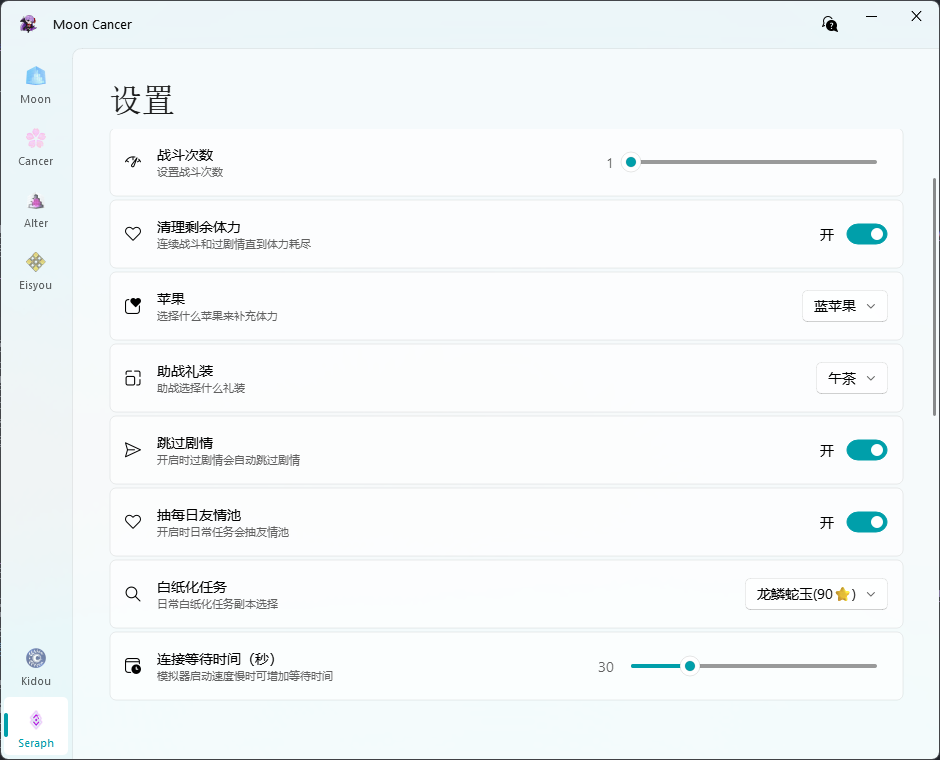
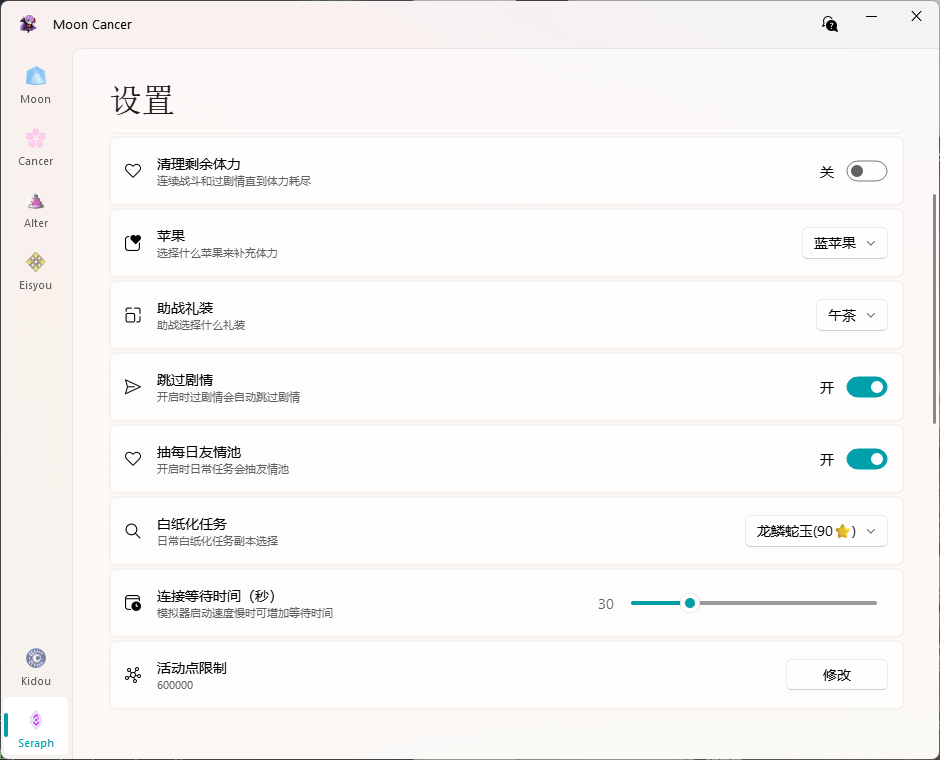
更新MC说明

diff --git a/src/content/posts/MoonCancer1.md b/src/content/posts/MoonCancer1.md
@@ -8,15 +8,21 @@ category: MoonCancer
 draft: false
 ---
 
-*MoonCaner脚本的启动界面，又上角的图标可以打开帮助连接，有问题随时可以查看，点击会赢的Banner会打开我的哔站主页(可以给我投币，~~如果可以大会员每月硬币请给我充电~~)*<br>
+*MoonCaner脚本的启动界面，又上角的图标可以打开帮助弹窗，有问题随时可以查看，点击`会赢的`标签会打开我的博客*<br>
 
 ## 基本功能
 `日常任务`<br>
 整个流程包括打开模拟器(需要设置模拟器路径)，启动游戏，抽每日免费友情池(可关闭)，完成每日三次白纸化(设置中的本)。可以在主界面或者只运行了模拟器开始。每天可以直接点一下就下线，长草期也不麻烦，轻松攒石头<br>
+
 `开始战斗`<br>
 自动刷各种本，主要是能连续战斗的，或是强化本或者free本那样回到主界面右上角也有本可以点的情况，在Seraph(设置)里设置好战斗次数，礼装类型，是否要清理剩余体力，就可以点击开始了。可以在进入战斗前的选择助战，队伍设置和进入战斗后开始，也可以在主界面选本界面开始，但要保证要刷的本在第一个位置。<br>
+
 `过主线`<br>
 自动过主线和类主线，自动完成期间的战斗，保障屏幕里表示主线任务的`下一个`标识存在即可点击开始，部分情况会卡住，需要手动修正，默认自动跳过主线，关闭跳过剧情时会自动朗读剧情，相关配置可以到Eisyou界面修改，具体说明请看[Eisyou界面说明](../mooncancer4)<br>
-
+可能需要手动干涉部分：<br>
+**第四特异点** 雾遮挡标志<br>
+**第六特异点** 风沙遮挡标志<br>
+**第七特异点** 提亚马特遮挡标志<br>
+**终局特异点** 柱子站之前剧情过完就没有标志了，要自己去把柱子战过了<br>
 
 更多功能等后续更新

diff --git a/src/content/posts/Add-right-click-menu.md b/src/content/posts/Add-right-click-menu.md
@@ -1,0 +1,30 @@
+---
+title: 在文件夹右键菜单添加cmd管理员、终端(powershell))管理员
+published: 2025-08-19
+description: '在文件夹右键菜单添加cmd管理员、终端(powershell))管理员'
+image: ''
+tags: [cmd, powershell, windows]
+category: 'Share'
+draft: true 
+lang: ''
+---
+
+
+
+```reg
+Windows Registry Editor Version 5.00
+
+[HKEY_CLASSES_ROOT\Directory\shell\PowerShellAdmin]
+@="终端管理员"
+"Icon"="C:\Program Files\WindowsApps\Microsoft.WindowsTerminal_1.22.12111.0_x64__8wekyb3d8bbwe\WindowsTerminal.exe"
+
+[HKEY_CLASSES_ROOT\Directory\shell\PowerShellAdmin\command]
+@="powershell.exe -Command \"Start-Process wt.exe -ArgumentList '--window 0 --startingDirectory \\\"%V\\\"' -Verb RunAs\""
+
+[HKEY_CLASSES_ROOT\Directory\Background\shell\PowerShellAdmin]
+@="终端管理员"
+"Icon"="C:\Program Files\WindowsApps\Microsoft.WindowsTerminal_1.22.12111.0_x64__8wekyb3d8bbwe\WindowsTerminal.exe"
+
+[HKEY_CLASSES_ROOT\Directory\Background\shell\PowerShellAdmin\command]
+@="powershell.exe -Command \"Start-Process wt.exe -ArgumentList '--window 0 --startingDirectory \\\"%V\\\"' -Verb RunAs\""
+```

diff --git a/src/content/posts/MoonCancer0.md b/src/content/posts/MoonCancer0.md
@@ -7,7 +7,7 @@ tags: [fgo, 脚本, MoonCancer]
 category: MoonCancer
 draft: false 
 ---
-<font size=5>**配置不够？不能满羁绊？刷本太慢？真拿你没办法，前辈 ❤，让 BB 亲来帮你吧**</font>
+<font size=5>**配置不够？不能满羁绊？刷本太慢？<br>真拿你没办法，前辈 ❤，让 BB 亲来帮你吧**</font>
 
 ## 功能简介
 
@@ -65,6 +65,7 @@ draft: false
 - **抽每日友情池**，开启会在日常任务打白纸化之前先抽取每日免费友情池
 - **白纸化任务**，选择每日刷的本，按需选取
 - **连接等待时间**，如果自动启动模拟器时，模拟器启动时间过长导致没连上，可以增加等待时间
+- **活动点限制**，设置活动点限制，超过就停止，不多刷浪费
 ![settings2](../../assets/images/mooncaner/settings2.png)
 - 剩下的设置没啥好讲的了，自己看着选
 

diff --git a/src/content/posts/build-blog.md b/src/content/posts/build-blog.md
@@ -1,7 +1,7 @@
 ---
 title: 用Astro在github上搭建博客
 published: 2025-08-18
-description: '记录一下搭建博客踩的坑'
+description: '记录一下搭建博客踩的坑和经验'
 image: ''
 tags: [Blogs, GitHub, Astro]
 category: 'Share'
